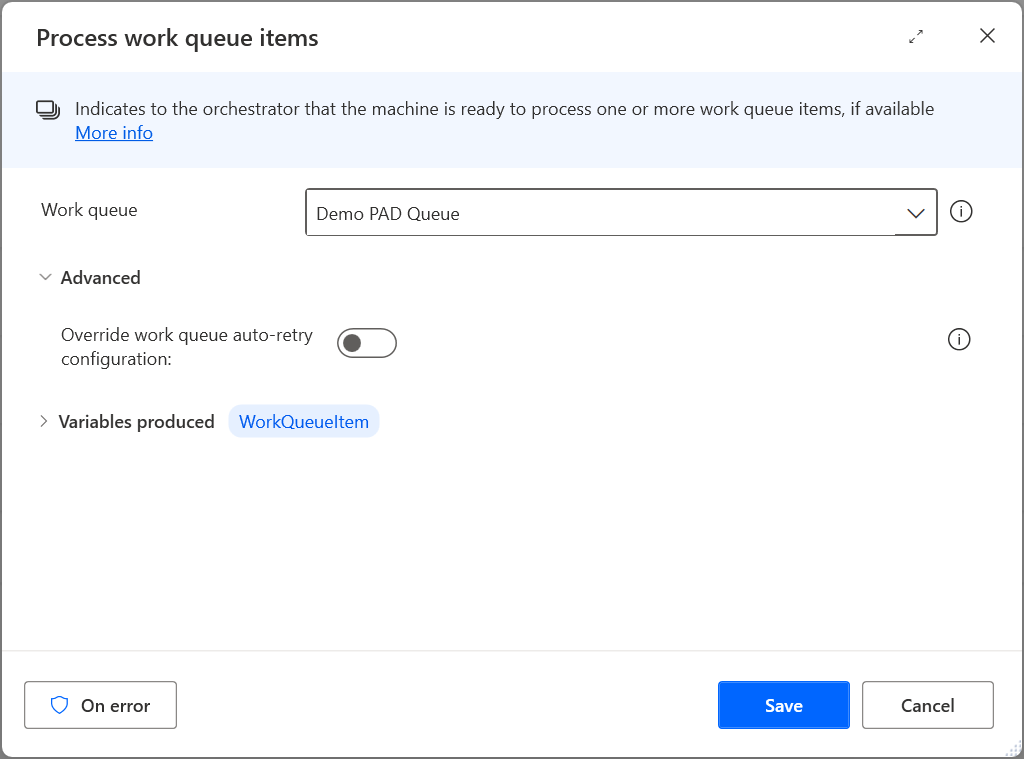
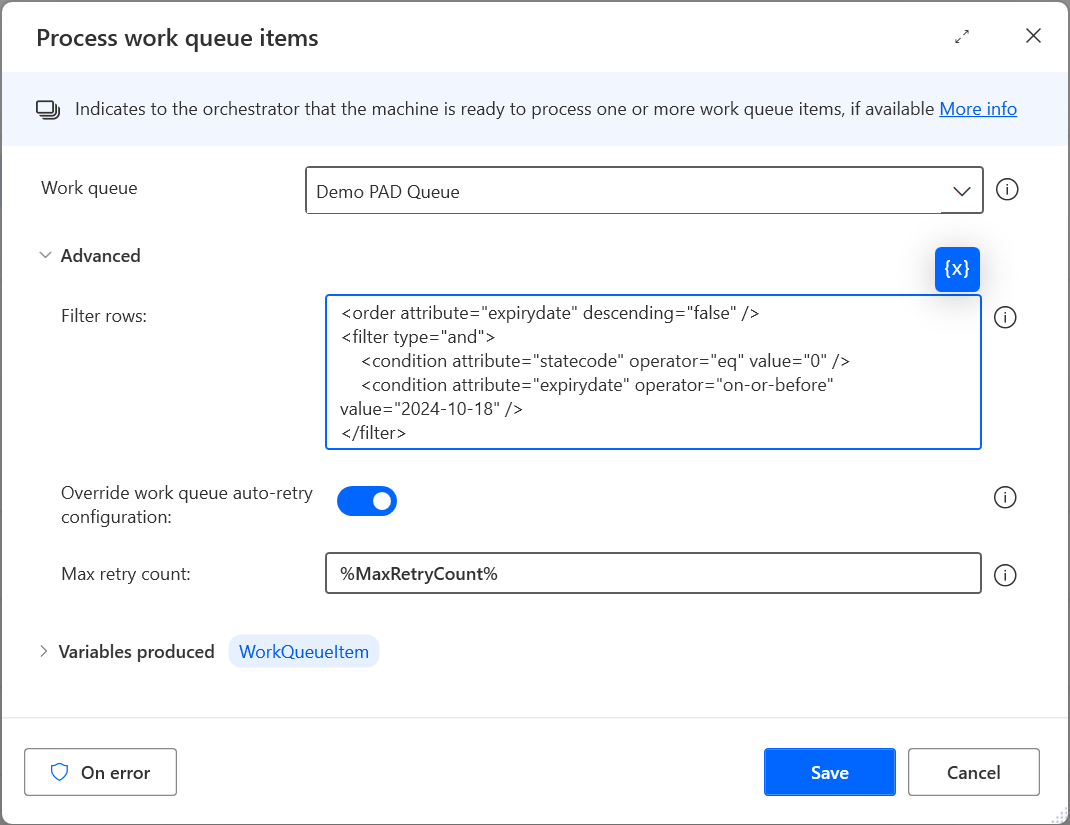
Initial commit

diff --git a/articles/desktop-flows/actions-reference/workqueues.md b/articles/desktop-flows/actions-reference/workqueues.md
@@ -2,7 +2,7 @@
 title: Work queues actions
 description: Use work queue actions in Power Automate desktop flows.
 ms.topic: conceptual
-ms.date: 09/26/2024
+ms.date: 10/14/2024
 ms.author: dbekirop
 ms.reviewer: 
 contributors:
@@ -31,6 +31,9 @@ The **Process work queue items** action indicates to the queue orchestrator that
 
 The **work queue** referenced in the previous action is used by the queue orchestrator to determine the next available items in that work queue that are in **Queued** state. As the desktop flow steps through the actions within the Process work queue items loop that this action renders, you can call on the value by utilizing the variable you have designated for the action along with the property `.Value`.  In this case, you could call the value of the work queue item using the variable %WorkQueueItem.Value% 
 
+> [!IMPORTANT]
+> When you supply a [FetchXML](#what-are-fetchxml-queries) expression in the "Filter rows" field, you are effectively bypassing the default work queue orchestrator's FIFO logic for queued items. This enables you to establish a custom dequeue order and even ignore item expiration dates and other settings that are otherwise automatically applied when not providing a filter expression.
+
 ### `Processworkqueueitemaction`
 
 The **Process work queue item action** action requires the following arguments.
@@ -40,6 +43,7 @@ The **Process work queue item action** action requires the following arguments.
   | Argument       | Optional | Accepts | Default Value | Description     |
   |-----|-----|-----|---------------|-----------------|
   | **Work queue** |No    |Text |               |The work queue ID of the work queue that contains items to process|
+  | **Filter rows** | No    |Text |              | The [FetchXML](#example-fetchxml-query) query expression used to retrieve items from the work queue |
   | **Overwrite work queue auto-retry configuration** | Yes | Boolean| False | When enabled, a field appears allowing you to set or overwrite the maximum number of retries for `IT Exceptions`. |
   | **Max retry count** |No    |Text value, Numeric value|               | The maximum allowed number of retries for `IT Exceptions`. This parameter lets you adjust the retry count to a higher or lower value, or even disable the retry mechanism by setting the count to 0.|
 
@@ -54,7 +58,32 @@ The **Process work queue item action** action requires the following arguments.
   | Exception       | Description     |
   |----------      |-----------------|
   | **Work queue not found** |The value entered into the work queue parameter is invalid|
+|**Work queue paused or stopped**| Work queue has either been paused or stopped which is not a valid state when processing items |
+|**Invalid FetchXML**| An invalid FetchXML expression has been provided |
 |**Failed to process work queue**| Bad request - error in query syntax |
+
+### What are FetchXML queries?
+
+Microsoft Dataverse [FetchXML](/power-apps/developer/data-platform/use-fetchxml-construct-query) is a language used for retrieving data from a Dataverse database. It's designed to be easy to create, use and understand. For example, you might want to ask the orchestrator to process items in a different order than first-in-first-out (FIFO) and that expire within a specific timeframe.
+
+To limit the FetchXml query support to processing work queue items, we only support a limited set of FetchXml terms and expressions. These include filters, conditions, and ordering expressions, all limited to the work queue item table (workqueueitem). We only return items that are in a `Queued` state.
+
+### Example FetchXML query
+
+Here’s an example query expression on how to filter on the `name` and order the results by those expiring first (FEFO).
+
+```xml
+<filter type="and">
+  <condition attribute="expirydate" operator="on-or-before" value="2024-10-18" />
+  <condition attribute="name" operator="eq" value="MyNonUniqueNameString" />
+</filter>
+<order attribute="expirydate" descending="false" />
+```
+
+### Query support details and reference data
+
+- List of [query operators](/power-apps/developer/data-platform/fetchxml/reference/operators) available for use, including operators such as on-or-before, between, and last-month.
+- List of attributes available in the [work queue item](/power-apps/developer/data-platform/reference/entities/workqueueitem#writable-columnsattributes) table.
 
 ## Update work queue item
 
@@ -87,7 +116,7 @@ The **Add work queue item** action allows users to populate work queue items int
 
 :::image type="content" source="media\workqueues\AddWorkQueueItem.png" alt-text="Screenshot of the add work queue item action." lightbox="media\workqueues\AddWorkQueueItem.png":::
 
-### `Addworkqueueitem` action
+### `Enqueueworkqueueitemaction` action
 
 The **Add work queue item** action requires the following arguments.
 
@@ -115,6 +144,68 @@ The **Add work queue item** action requires the following arguments.
 |----------------|----------|
 | **Work queue not found** | The value entered into the work queue parameter is invalid|
 | **Failed to add item into work queue** | The work queue item couldn't be added into the work queue. Bad request - error in query syntax |
+
+## Add multiple work queue items
+
+The **Add multiple work queue items** action allows users to add one or more work queue items to a work queue based on the data provided as work queue item data table.
+
+:::image type="content" source="media\workqueues\AddMultipleWorkQueueItems.png" alt-text="Screenshot of the add multiple work queue items action." lightbox="media\workqueues\AddMultipleWorkQueueItems.png":::
+
+This action requires a custom data table that holds one or more work queue items. There data table must have 8 columns and conform to the following schema.
+
+| Column Name         | Description                                            | Required | Allowed Values                               |
+|---------------------|--------------------------------------------------------|----------|----------------------------------------------|
+| Name                | The name of the item.                                  | No       | Any alphanumeric string                                   |
+| Input               | Input details or data of the item.                     | Yes      | Any alphanumeric string                                   |
+| Expires in          | Specifies the duration until the item expires.         | No       | Date and time value |
+| Processing notes    | Processing notes related to the item.                  | No       | Any alphanumeric string                                   |
+| Priority            | The priority level of the item.                        | Yes      | Numeric value of either 100 (High), 200 (Normal), 300 (Low) |
+| Unique reference    | A unique identifier or reference value for the item.   | No       | Any unique alphanumeric string or reference                  |
+| Status              | Status of the item on ingestion.                       | Yes      | Numeric value of either 0 (Queued), 1 (On Hold).     |
+| Delay until         | Specifies a date and time until the work queue items should be ignored for processing.    | No      | Date and time value|
+
+#### Robin code snippet for creating the data table
+
+Here's a robin code (used in traditional flows) snippet that you can simply copy and directly paste into the Power Automate desktop designer window. This will add a [Create new data table](/articles/desktop-flows/actions-reference/variables#createnewdatatable) action with the expected set of fields to your flow.
+
+```json
+Variables.CreateNewDatatable InputTable: { ^['Name', 'Input', 'Expires in', 'Processing notes', 'Priority', 'Unique reference', 'Status', 'Delay until'], [$'''''', $'''''', $'''''', $'''''', $'''''', $'''''', $'''''', $''''''] } DataTable=> DataTable
+```
+
+#### PowerFx code snippet for creating the data table
+
+Here's a PowerFx code snippet that you can simply copy and directly paste into the Power Automate desktop designer window. This will add a [Create new data table](/articles/desktop-flows/actions-reference/variables#createnewdatatable) action with the expected set of fields to your flow.
+
+```json
+Variables.CreateNewDatatable InputTable: { ^['Name', 'Input', 'Expires in', 'Processing notes', 'Priority', 'Unique reference', 'Status', 'Delay until'], [$fx'', $fx'', $fx'', $fx'', $fx'', $fx'', $fx'', $fx''] } DataTable=> DataTable
+```
+
+### `Batchenqueueworkqueueitemsaction` action
+
+The **Add multiple work queue items** action requires the following arguments.
+
+#### Input Parameters
+
+| Argument       | Optional | Accepts | Default Value | Description     |
+  |----------      |----------|---------|---------------|-----------------|
+  | **Work queue** |No    |Text value |               |The work queue item to add the item into|
+| **Work queue item data** | Yes | Datatable | | The custom data table holding work queue items to be added to the work queue |
+
+#### Variables produced
+
+  | Argument       | Type | Default Value | Description     |
+  |----------      |------|------|-----------------|
+  | **FailedWorkQueueItems** |No   | Enabled | In case of failures, this object will hold the index of the item that failed to be inserted together with an error code. The index returned here is the position (index) of the item in the provided work queue data table of the **Add multiple work queue items** action. |
+  | **HasFailedItems** |No   | Enabled | An indicator whethere the actions encountered ingestions errors because of work queue item data issues. |
+  | **SuccessfulWorkQueueItems** | Disabled | No   | A custom object holding the index and work queue items that have been successfully added to the work queue. |
+
+#### Exceptions
+
+| Argument       | Description |
+|----------------|----------|
+| **Work queue not found** | The value entered into the work queue parameter is invalid|
+| **Work queue paused or stopped** | The work queue item couldn't be added into the work queue because the work queue is either paused or stopped. |
+| **Failed to batch enqueue a list of work queue items** | The work queue items couldn't be added into the work queue because of a request or communication error. |
 
 ## Requeue item with delay
 
@@ -167,6 +258,103 @@ The **Update work queue item processing notes action** action requires the follo
 | **Work queue not found** | The work queue associated with the item has either been deleted or is no longer accessible |
 | **Work queue item not found** | The work queue item is invalid|
 | **Failed to append the processing results** | The work queue item being updated has encountered an unexpected error. Check the error message for more details. |
+
+## Get work queue items by filter
+
+The **Get work queue items by filter** action allows users to retrieve one or more work queue items based on a [FetchXML](#what-are-fetchxml-queries) filter expression.
+
+:::image type="content" source="media\workqueues\GetWorkQueueItemsByFilter.png" alt-text="Screenshot of the Get work queue items by filter action." lightbox="media\workqueues\GetWorkQueueItemsByFilter.png":::
+
+### `Getworkqueueitemsaction`
+
+The **Get work queue items by filter** action requires the following arguments.
+
+#### Input Parameters
+
+| Argument       | Optional | Accepts | Default Value | Description     |
+  |----------      |----------|---------|---------------|-----------------|
+  | **Work queue** |No    |Text | |Work queue to retrieve items from |
+| **Filter rows** | No | Text| | [FetchXML](#example-fetchxml-query) query expression used to retrieve items from the work queue |
+| **Rows to return** | No | Number | 5000 | The maximum number of work queue items to be returned by the orchestrator |
+
+#### Variables produced
+
+  | Argument       | Type | Default Value | Description     |
+  |----------      |------|------|-----------------|
+  | **WorkQueueItems** |No   | Enabled | List of work queue items matching the filter expression. |
+
+#### Exceptions
+
+| Argument       | Description |
+|----------------|----------|
+| **Work queue** | The work queue to retrieve items from |
+| **Filter rows** | The [FetchXML](#example-fetchxml-query) query expression used to retrieve items from the work queue |
+| **Rows to return** | The maximum number of work queue items to be returned by the orchestrator (default is 5000). |
+
+### What are FetchXML queries?
+
+Microsoft Dataverse [FetchXML](/power-apps/developer/data-platform/use-fetchxml-construct-query) is a language used for retrieving data from a Dataverse database. It's designed to be easy to create, use and understand. For example, you might want to ask Dataverse to give you a list of all work queue items that are in `IT Exception` state.
+
+To limit the FetchXml query support to retrieving work queue items, we only support a limited set of FetchXml terms and expressions. These include attributes, filters, conditions, and ordering expressions, all limited to the work queue item table (workqueueitem). You must explicitly specify which properties to return from the work queue item table and the desired sort order.
+
+### Example FetchXML query
+
+Here’s an example query expression on how to fetch several properties, filter out erroneous items marked as `IT Exceptions`, and order the results by those expiring first (FEFO).
+
+```xml
+<attribute name="statecode" />
+<attribute name="uniqueidbyqueue" />
+<attribute name="createdon" />
+<attribute name="completedon" />
+<attribute name="workqueueitemid" />
+<attribute name="executioncontext" />
+<attribute name="name" />
+<attribute name="expirydate" />
+<attribute name="processingresult" />
+<attribute name="priority" />
+<attribute name="statuscode" />
+<attribute name="modifiedon" />
+<attribute name="processingstarttime" />
+<attribute name="retrycount" />
+<attribute name="requeuecount" />
+<attribute name="input" />
+<attribute name="delayuntil" />
+<filter type="and">
+    <condition attribute="statecode" operator="eq" value="4" />
+    <condition attribute="statuscode" operator="eq" value="5" />
+    <condition attribute="expirydate" operator="on-or-before" value="2024-10-18" />
+</filter>
+<order attribute="expirydate" descending="false" />
+```
+
+### Query support details and reference data
+
+- List of [query operators](/power-apps/developer/data-platform/fetchxml/reference/operators) available for use, including operators such as on-or-before, between, and last-month.
+- List of attributes available in the [work queue item](/power-apps/developer/data-platform/reference/entities/workqueueitem#writable-columnsattributes) table.
+
+#### Status (statecode)
+
+| Status    | Code | Description       |
+|-----------|------|-------------------|
+| Queued    | 0    | Item is queued    |
+| Processing| 1    | Item is being processed |
+| Processed | 2    | Item has been processed |
+| OnHold    | 3    | Item is on hold   |
+| Error     | 4    | Item encountered an error |
+
+#### Status Reason (statuscode)
+
+| Status Reason          | Code | Description                    |
+|------------------------|------|--------------------------------|
+| Queued                 | 0    | Item is queued                 |
+| Processing             | 1    | Item is being processed        |
+| Processed              | 2    | Item has been processed        |
+| OnHold (Paused)        | 3    | Item is on hold (paused)       |
+| GenericException       | 4    | Item encountered a generic exception |
+| ITException            | 5    | Item encountered an IT exception |
+| BusinessException      | 6    | Item encountered a business exception |
+| DeadLetter             | 7    | Item is in on-hold   |
+| ProcessingTimeout      | 8    | Item processing timed out      |
 
 ## Related information
 

diff --git a/articles/desktop-flows/work-queues-process.md b/articles/desktop-flows/work-queues-process.md
@@ -114,7 +114,7 @@ When the max retry count is reached, the update action sends the update to the o
 
 #### Adding & Requeuing work queue items examples from PAD
 
-The **Add work queue item** enables desktop flow users to populate work queue items into a work queue, which has been set up in the flow portal.
+The **Add work queue item** enables desktop flow users to populate work queue items into a work queue, which has been set up in the flow portal. We also support batch item creation by using the [**Add work queue items**](actions-reference/workqueues.md#add-multiple-work-queue-items) action.
 
 In this example, an Excel file in .csv is dropped into a directory on a daily basis and each row needs to be added to a work queue.
 

diff --git a/articles/desktop-flows/work-queues.md b/articles/desktop-flows/work-queues.md
@@ -29,6 +29,9 @@ To use work queues in Power Automate the following are required:
 
 - Premium Power Automate license
 - Environment maker role (or other roles that include access to work queue tables)
+- Power Automate URL and IP address configurations
+  - [Public cloud](/power-automate/ip-address-configuration#required-services)
+  - [Government cloud](/power-automate/us-govt#power-automate-us-government-service-urls)
 
 ## Work queue benefits
 
